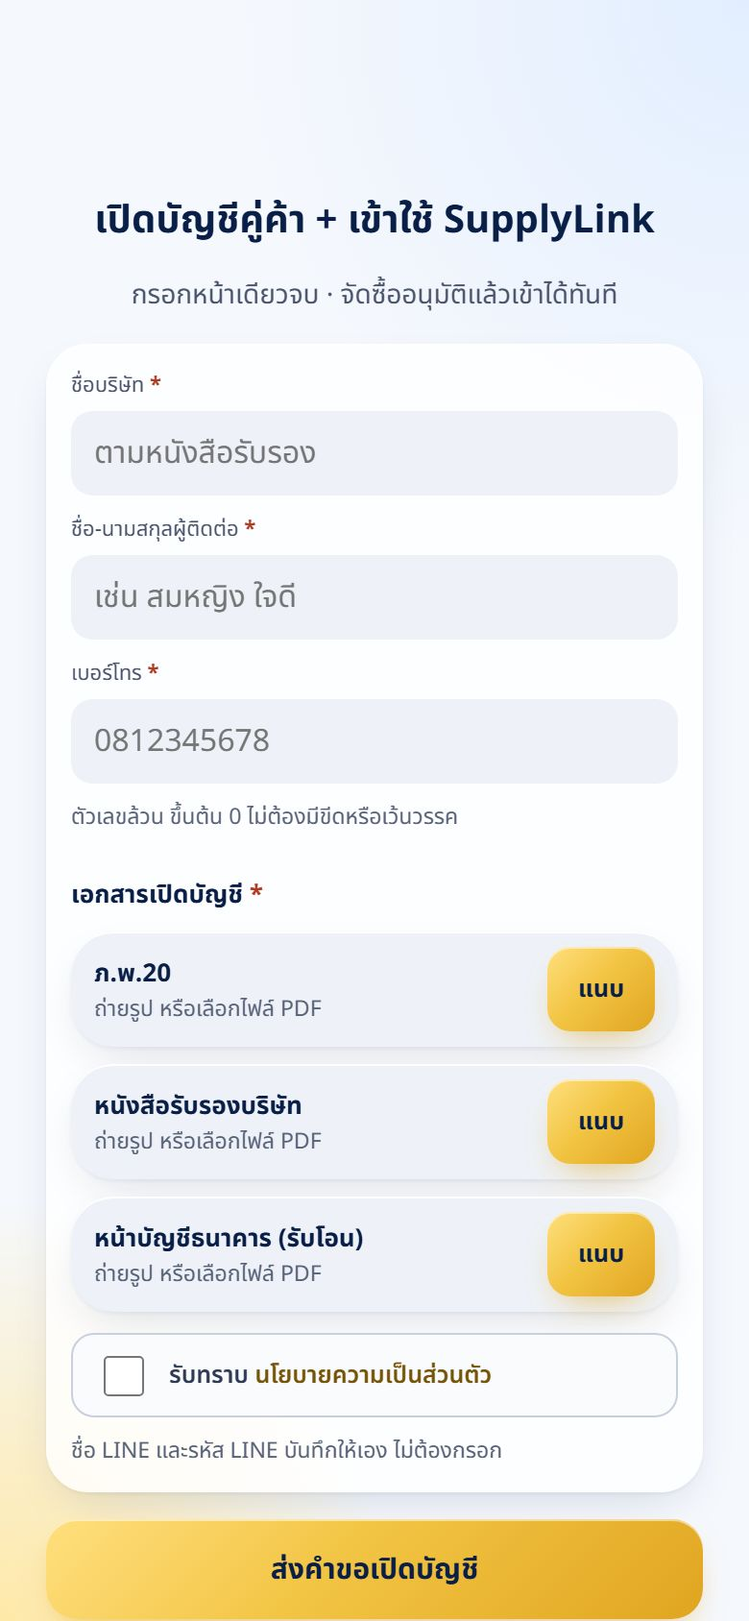
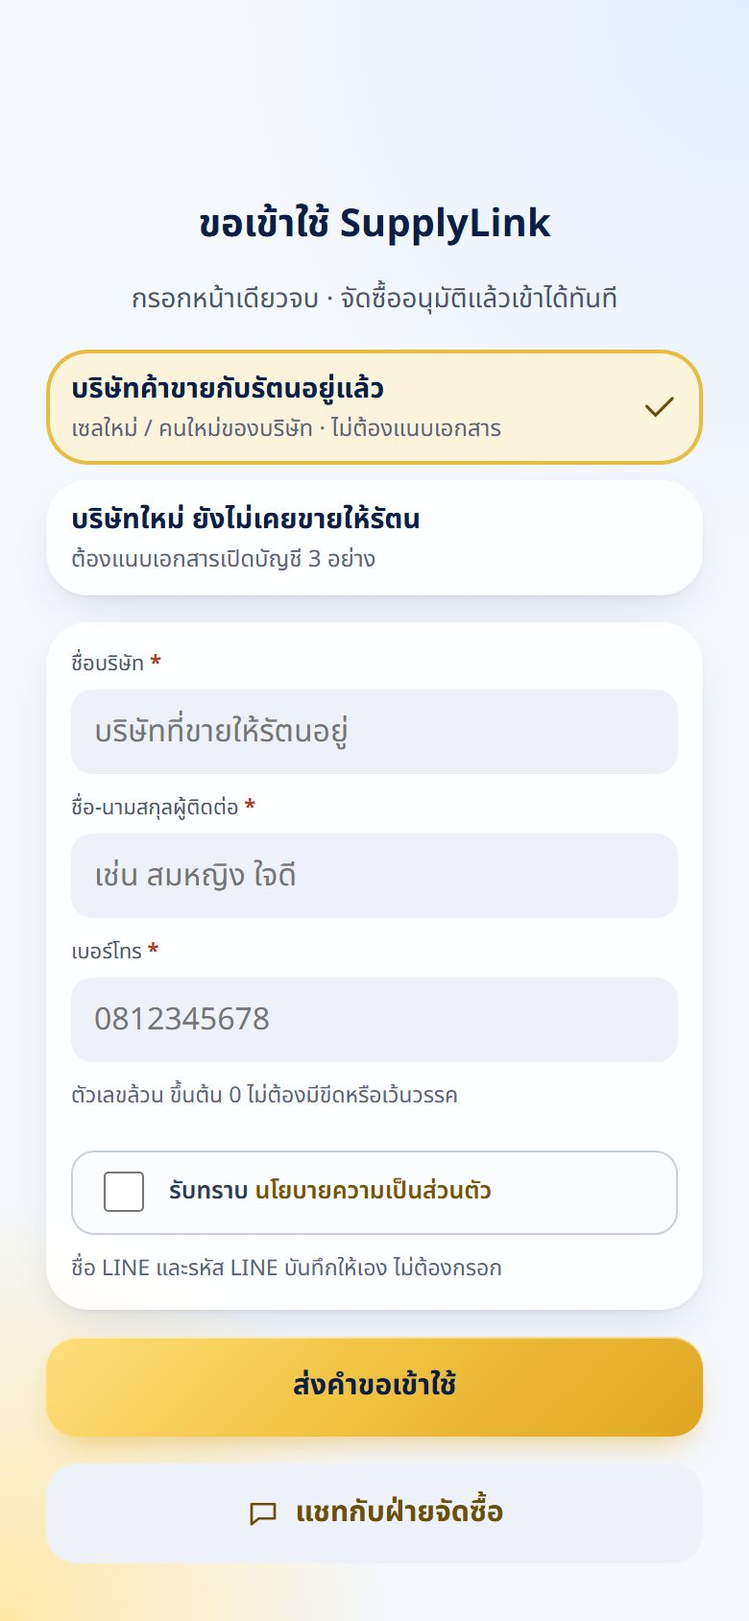
SupplyLink v1.80.0: เซลใหม่ของบริษัทที่ค้าขายอยู่แล้ว ขอเข้าใช้ได้โดยไม่ต้องแนบเอกสาร · guide v1.10.0

diff --git a/rattana-supplylink.html b/rattana-supplylink.html
@@ -3,7 +3,7 @@
 <head>
 <meta charset="utf-8">
 <meta name="viewport" content="width=device-width, initial-scale=1, viewport-fit=cover">
-<title>SupplyLink — คู่ค้ารัตนไพบูลย์ v1.79.4</title>
+<title>SupplyLink — คู่ค้ารัตนไพบูลย์ v1.80.0</title>
 <meta name="theme-color" content="#B8D5FF">
 <link rel="icon" type="image/png" sizes="64x64" href="icons/rattana-supplylink-64.png">
 <link rel="icon" type="image/png" sizes="256x256" href="icons/rattana-supplylink.png">
@@ -2038,7 +2038,7 @@ body.otgate #tabbar,body.otgate #railnav{display:none!important}
 
 /* ══ ตั้งค่า — แก้ตรงนี้ที่เดียว ══ */
 var CONFIG = {
-  APP_VERSION: 'v1.79.4',
+  APP_VERSION: 'v1.80.0',
   /* LIFF ของแอปนี้: LINE Developers → provider RTNPurchase → channel "RTNPurchase Supplier" (2011693023) → แท็บ LIFF
      ต้องอยู่ channel เดียวกับระบบลงทะเบียนเดิม ถึงจะได้ LINE User ID ตรงกับแท็บ Login Users · ว่าง = ยังไม่เปิดใช้จริง */
   LIFF_ID: '2011693023-xbdsN1K7',
@@ -4130,7 +4130,7 @@ V.terms = function () {
     '<div class="card otq" data-tweak="คำถามที่ 2"><b>2. สั่งแล้วกี่วันของเข้าคลังรัตน</b><span class="dim" style="font-size:12px">นับจากวันที่ได้ PO ถึงวันที่ของเข้า (ภาพรวม)</span>'+
       '<div class="row otrow"><span class="grow">ส่วนใหญ่เข้าภายใน</span>'+otInp('lead', o.lead, 'วัน')+'</div></div>'+
     '<div class="card otq otsug" data-tweak="ข้อมูลเพิ่ม"><b>3. ข้อมูลเพิ่ม</b><span class="ottag">ไม่บังคับ</span>'+
-      '<div class="otlbl">ได้ PO ก่อนกี่โมง ถึงนับวันนั้น</div>'+   /* v1.79.4: กดเลือกเวลา 10:00 · 14:00 (Surat) · อื่นๆ = พิมพ์เอง */
+      '<div class="otlbl">ได้ PO ก่อนกี่โมง ถึงนับวันนั้น</div>'+   /* v1.80.0: กดเลือกเวลา 10:00 · 14:00 (Surat) · อื่นๆ = พิมพ์เอง */
       (function () { var oth = S.otCutOther || (o.cut && o.cut !== '10:00' && o.cut !== '14:00');
         return '<div class="filters" style="flex-wrap:wrap">'+['10:00', '14:00'].map(function (t) { return '<button class="tag" aria-pressed="'+(!oth && o.cut === t)+'" data-act="otcut:'+t+'">'+t+' น.</button>'; }).join('')+
           '<button class="tag" aria-pressed="'+!!oth+'" data-act="otcut:other">เวลาอื่น</button></div>'+
@@ -4141,7 +4141,7 @@ V.terms = function () {
       '<div class="row otrow"><span class="grow">เบอร์โทร</span>'+otInp('ctel', o.ctel, '', '08x-xxx-xxxx', true).replace('inputmode="text"', 'inputmode="tel"')+'</div>'+
       '<div class="row otrow"><span class="grow">ช่วงปิดรับออเดอร์ (เทศกาล)</span>'+otInp('close', o.close, '', 'เช่น 28 ธ.ค.–3 ม.ค.', true)+'</div></div>';
   var last = step === 3, next = step === 1 && !o.some ? 3 : step + 1, prev = step === 3 && !o.some ? 1 : step - 1;
-  var force = need || S.otForce;                                  /* v1.79.4: ยังไม่ตอบ / มาจากปุ่ม LINE = ต้องตอบให้จบ ไม่มีปุ่มปิด/กลับ (Surat) */
+  var force = need || S.otForce;                                  /* v1.80.0: ยังไม่ตอบ / มาจากปุ่ม LINE = ต้องตอบให้จบ ไม่มีปุ่มปิด/กลับ (Surat) */
   return '<div class="scr" id="s-terms">'+hdr('เงื่อนไขการสั่งซื้อ', force ? '' : 'profile')+
     '<div class="body" data-tweak="เงื่อนไขการสั่งซื้อ">'+body+   /* ปุ่มอยู่ท้ายเนื้อหา เลื่อนลงสุดแล้วค่อยกด */
     '<div class="otbar" data-tweak="แถบปุ่มแบบสอบถาม">'+(step > 1 ? '<button class="btn line" data-act="otstep:'+prev+'">ย้อนกลับ</button>' : '')+
@@ -9875,22 +9875,26 @@ function obKv(k, v){ return '<div class="flexrow" style="gap:8px;font-size:13px;
 function obState(){ return S.obf || (S.obf = { v:{ company:(OBRES && OBRES.contact && OBRES.contact.company) || '', contact:(OBRES && OBRES.contact && OBRES.contact.name) || '', phone:(OBRES && OBRES.contact && OBRES.contact.phone) || '', sales:'' }, files:[null, null, null], pdpa:false }); }
 function obFormHtml(last){
   var o = obState(), fld = function (k, l, ph, mode) { return '<label class="fld"><span>' + l + ' <b style="color:var(--clay)">*</b></span><input data-ob="' + k + '" value="' + esc(o.v[k] || '') + '" placeholder="' + esc(ph) + '"' + (mode ? ' inputmode="' + (mode === 'tel' ? 'numeric' : mode) + '"' : '') + (mode === 'tel' ? ' maxlength="10" autocomplete="tel"' : '') + '></label>'; };
-  return '<img class="g-logo" src="icons/rattana-supplylink.png" alt="SupplyLink" width="56" height="56" style="width:56px;height:56px"><h1>เปิดบัญชีคู่ค้า + เข้าใช้ SupplyLink</h1>'+
+  var rep = o.kind !== 'new';                                     /* v1.80: บริษัทค้าขายกับรัตนอยู่แล้ว (ค่าเริ่มต้น) = ไม่ต้องแนบเอกสาร · บริษัทใหม่ = แนบ 3 อย่าง */
+  return '<img class="g-logo" src="icons/rattana-supplylink.png" alt="SupplyLink" width="56" height="56" style="width:56px;height:56px"><h1>' + (rep ? 'ขอเข้าใช้ SupplyLink' : 'เปิดบัญชีคู่ค้า + เข้าใช้ SupplyLink') + '</h1>'+
     '<p class="one">กรอกหน้าเดียวจบ · จัดซื้ออนุมัติแล้วเข้าได้ทันที</p>'+
+    '<div style="width:100%;max-width:360px;display:flex;flex-direction:column;gap:8px" data-tweak="เลือกประเภทคำขอ">'+
+      [['rep', 'บริษัทค้าขายกับรัตนอยู่แล้ว', 'เซลใหม่ / คนใหม่ของบริษัท · ไม่ต้องแนบเอกสาร'], ['new', 'บริษัทใหม่ ยังไม่เคยขายให้รัตน', 'ต้องแนบเอกสารเปิดบัญชี 3 อย่าง']].map(function (k) { var on = (k[0] === 'rep') === rep;
+        return '<button class="card rowcard" data-act="obkind:' + k[0] + '" aria-pressed="' + on + '" style="min-height:56px;padding:10px 13px;text-align:left;color:var(--ink);' + (on ? 'box-shadow:inset 0 0 0 2px var(--gold);background:var(--cream,#FBF3DC)' : '') + '"><span class="grow" style="min-width:0"><b style="display:block;font-size:14.5px">' + k[1] + '</b><span class="dim" style="display:block;font-size:12px">' + k[2] + '</span></span>' + (on ? ic('check', 20, 'var(--gold-deep)') : '') + '</button>'; }).join('') + '</div>'+
     (last && last.st === 'ไม่อนุมัติ' ? '<div class="card" style="width:100%;max-width:360px;text-align:left;background:var(--clay-soft);color:var(--ink);font-size:13px;line-height:1.55"><b>คำขอ ' + esc(last.rq) + ' ยังไม่ผ่าน</b><br>' + esc(last.note || '') + '<br><span class="dim">แก้ตามนี้แล้วส่งใหม่ได้เลย</span></div>' : '')+
     '<div class="card" style="width:100%;max-width:360px;text-align:left;display:flex;flex-direction:column;gap:9px;color:var(--ink)" data-tweak="ฟอร์มเปิดบัญชี">'+
-      fld('company', 'ชื่อบริษัท', 'ตามหนังสือรับรอง') + fld('contact', 'ชื่อ-นามสกุลผู้ติดต่อ', 'เช่น สมหญิง ใจดี')+
+      fld('company', 'ชื่อบริษัท', rep ? 'บริษัทที่ขายให้รัตนอยู่' : 'ตามหนังสือรับรอง') + fld('contact', 'ชื่อ-นามสกุลผู้ติดต่อ', 'เช่น สมหญิง ใจดี')+
       fld('phone', 'เบอร์โทร', '0812345678', 'tel')+
       '<span class="one dim" style="font-size:11.5px">ตัวเลขล้วน ขึ้นต้น 0 ไม่ต้องมีขีดหรือเว้นวรรค</span><div id="obmatch"></div>'+
-      '<b style="font-size:13px;margin-top:4px">เอกสารเปิดบัญชี <span style="color:var(--clay)">*</span></b>'+
-      OB_DOCS.map(function (d, i) { var f = o.files[i];
+      (rep ? '' : '<b style="font-size:13px;margin-top:4px">เอกสารเปิดบัญชี <span style="color:var(--clay)">*</span></b>')+
+      (rep ? [] : OB_DOCS).map(function (d, i) { var f = o.files[i];
         return '<div class="card rowcard" style="min-height:52px;padding:8px 12px;background:var(--fill)" data-tweak-card="เอกสารเปิดบัญชี">'+
           (f && f.url ? '<img src="' + f.url + '" alt="" style="width:40px;height:40px;border-radius:8px;object-fit:cover;flex-shrink:0">' : '')+
           '<span class="grow" style="min-width:0"><b class="one" style="display:block;font-size:13px">' + esc(d) + '</b><span class="one dim" style="display:block;font-size:11.5px">' + esc(f ? f.name : 'ถ่ายรูป หรือเลือกไฟล์ PDF') + '</span></span>'+
           '<button class="btn ' + (f ? 'line' : 'gold') + ' sm" style="flex-shrink:0" data-act="obdoc:' + i + '">' + (f ? 'เปลี่ยน' : 'แนบ') + '</button></div>'; }).join('')+
       '<label class="ack" style="margin:2px 0 0;font-size:12.5px"><input type="checkbox" data-obpdpa="1"' + (o.pdpa ? ' checked' : '') + '><span class="one">รับทราบ <a href="#" data-act="obpolicy">นโยบายความเป็นส่วนตัว</a></span></label>'+
       '<span class="one dim" style="font-size:11.5px">ชื่อ LINE และรหัส LINE บันทึกให้เอง ไม่ต้องกรอก</span></div>'+
-    '<button class="btn gold" data-act="obsend">' + (S.sending ? 'กำลังส่ง…' : 'ส่งคำขอเปิดบัญชี') + '</button>'+
+    '<button class="btn gold" data-act="obsend">' + (S.sending ? 'กำลังส่ง…' : rep ? 'ส่งคำขอเข้าใช้' : 'ส่งคำขอเปิดบัญชี') + '</button>'+
     '<button class="btn line" data-act="openoa">' + ic('chat', 18, 'var(--gold-deep)') + 'แชทกับฝ่ายจัดซื้อ</button>';
 }
 function obReadDoc(file, i){
@@ -9903,12 +9907,13 @@ function obReadDoc(file, i){
 function obSend(){
   var o = obState(), v = o.v, miss = [['company', 'ชื่อบริษัท'], ['contact', 'ผู้ติดต่อ']].filter(function (x) { return !String(v[x[0]] || '').trim(); }).map(function (x) { return x[1]; });
   if (!phoneOk(normPhone(v.phone))) miss.push('เบอร์โทร (ตัวเลข 9–10 หลัก ขึ้นต้น 0)');
-  OB_DOCS.forEach(function (d, i) { if (!o.files[i]) miss.push(d); });
+  var rep = o.kind !== 'new';
+  if (!rep) OB_DOCS.forEach(function (d, i) { if (!o.files[i]) miss.push(d); });
   if (!o.pdpa) miss.push('ติ๊กรับทราบนโยบาย');
   if (miss.length) return toast('ยังขาด ' + miss.slice(0, 3).join(' · ') + (miss.length > 3 ? ' และอีก ' + (miss.length - 3) : ''));
-  if (MODE === 'demo') return gate('obwait', { rq:'RQ6911/001', company:v.company, contact:v.contact, phone:v.phone, docs:3 });
-  sendWith('onboardSubmit', { company:v.company, contact:v.contact, phone:normPhone(v.phone), sales:normPhone(v.phone), pdpa:true, confirmed:o.confirmed || '',
-    files:o.files.map(function (f, i) { return { field:OB_DOCS[i], name:f.name || OB_DOCS[i], mime:f.mime || 'image/jpeg', b64:f.b64 }; }) })
+  if (MODE === 'demo') return gate('obwait', { rq:'RQ6911/001', company:v.company, contact:v.contact, phone:v.phone, docs:rep ? 0 : 3 });
+  sendWith('onboardSubmit', { company:v.company, contact:v.contact, phone:normPhone(v.phone), sales:normPhone(v.phone), pdpa:true, confirmed:o.confirmed || '', kind:rep ? 'rep' : 'new',
+    files:rep ? [] : o.files.map(function (f, i) { return { field:OB_DOCS[i], name:f.name || OB_DOCS[i], mime:f.mime || 'image/jpeg', b64:f.b64 }; }) })
     .then(function (r) { S.obf = null; gate('obwait', r.req); }, function () { gate('onboard', OBRES && OBRES.onboard); });
 }
 
@@ -9978,7 +9983,8 @@ V.obdetail = function () {
     '<div class="body" data-tweak="ตรวจคำขอเปิดบัญชี">'+
       '<div class="card" style="display:flex;flex-direction:column;gap:6px" data-tweak-card="ข้อมูลคำขอ"><b class="pn" style="font-size:16px">' + esc(x.company) + '</b>'+
         obKv('เลขคำขอ', x.rq + ' · ' + thDT(x.at)) + obKv('ผู้ติดต่อ', x.contact + ' · ' + x.phone) + (x.sales && x.sales !== x.phone ? obKv('พนักงานขาย', x.sales) : '') + obKv('ชื่อ LINE', x.line) + (x.confirmed ? obKv('ซัพยืนยัน', x.confirmed) : '') + (wait ? '' : obKv('ผล', x.st + (x.code ? ' · ' + x.code + ' ' + x.vname : '') + (x.by ? ' · ' + x.by : '')) + (x.note ? obKv('หมายเหตุ', x.note) : '')) + '</div>'+
-      '<div class="grid3" data-tweak="เอกสารเปิดบัญชี">' + x.docs.map(function (d) {                 /* เอกสารขึ้นให้เห็นเลย ไม่ต้องแตะ (Surat 2026-11-04) · แตะ = เปิดไฟล์เต็ม */
+      (x.kind === 'rep' ? '<div class="card flat" style="font-size:13px;line-height:1.55"><b>เซลของบริษัทที่ค้าขายกับรัตนอยู่แล้ว</b> · ไม่มีเอกสารแนบ เลือกบริษัทจาก Vendor_data ด้านล่างแล้วอนุมัติได้เลย</div>' : '')+
+      '<div class="grid3" data-tweak="เอกสารเปิดบัญชี"' + (x.kind === 'rep' ? ' hidden' : '') + '>' + x.docs.map(function (d) {                 /* เอกสารขึ้นให้เห็นเลย ไม่ต้องแตะ (Surat 2026-11-04) · แตะ = เปิดไฟล์เต็ม */
         return '<button class="obdoc" data-act="oburl:' + esc(d.url) + '" aria-label="เปิด ' + esc(d.t) + '">' + (d.img ? '<img src="' + d.img + '" alt="' + esc(d.t) + '">' : '<span class="dim" style="font-size:11.5px">' + (d.url ? 'แตะเพื่อเปิด' : 'ไม่มีไฟล์') + '</span>') + '<b class="one">' + esc(d.t) + '</b></button>'; }).join('') + '</div>'+
       (wait ? '<div class="sect" style="gap:8px"><b>เลือกบริษัทจาก Vendor_data</b>'+
         '<div class="sb' + (S.obq ? ' has' : '') + '">' + ic('search', 17, 'var(--ink-4)') + '<input id="obq" autocomplete="off" placeholder="ค้นชื่อบริษัท · รหัสเจ้าหนี้ · ผู้รับผิดชอบ" value="' + esc(S.obq || '') + '" aria-label="ค้นบริษัท"><button class="x" data-act="obqx" aria-label="ล้างการค้นหา">✕</button></div>'+
@@ -10232,6 +10238,7 @@ document.addEventListener('click', function (e) {
   if (k === 'qopen') return queueOpen(v);
   if (k === 'toall') return toAll(v);
   if (k === 'obdoc') return pickFile('ob', +v);
+  if (k === 'obkind') { obState().kind = v; return gate('onboard', OBRES && OBRES.onboard); }
   if (k === 'obsend') return obSend();
   if (k === 'obwh') { S.obWh = S.obWh || {}; if (S.obWh[v]) delete S.obWh[v]; else S.obWh[v] = 1; return render(); }
   if (k === 'otall') { otInit().all.on = !S.ot.all.on; return softRender(); }

diff --git a/supplylink-guide.html b/supplylink-guide.html
@@ -3,7 +3,7 @@
 <head>
 <meta charset="utf-8">
 <meta name="viewport" content="width=device-width,initial-scale=1,viewport-fit=cover">
-<title>ฝึกใช้ SupplyLink v1.9.3</title>
+<title>ฝึกใช้ SupplyLink v1.10.0</title>
 <link rel="preconnect" href="https://fonts.googleapis.com">
 <link href="https://fonts.googleapis.com/css2?family=Noto+Sans+Thai:wght@400;500;600;700&display=swap" rel="stylesheet">
 <style>
@@ -138,7 +138,7 @@ button{font:inherit;cursor:pointer}
 
 <script>
 (function () {
-  var VER = 'v1.9.3', APP = 'https://liff.line.me/2011693023-xbdsN1K7';
+  var VER = 'v1.10.0', APP = 'https://liff.line.me/2011693023-xbdsN1K7';
   var IMG = {"h0":"supplylink-guide/h0.jpg","hinc":"supplylink-guide/hinc.jpg","hdef":"supplylink-guide/hdef.jpg","hpo":"supplylink-guide/hpo.jpg","s2":"supplylink-guide/s2.jpg","s4":"supplylink-guide/s4.jpg","s5":"supplylink-guide/s5.jpg","s6":"supplylink-guide/s6.jpg","s7":"supplylink-guide/s7.jpg","s9":"supplylink-guide/s9.jpg","s10":"supplylink-guide/s10.jpg","s11":"supplylink-guide/s11.jpg","z1":"supplylink-guide/z1.jpg","zm":"supplylink-guide/zm.jpg","zt":"supplylink-guide/zt.jpg","zs":"supplylink-guide/zs.jpg","zi":"supplylink-guide/zi.jpg","q1":"supplylink-guide/q1.jpg","q2":"supplylink-guide/q2.jpg","q3":"supplylink-guide/q3.jpg","q4":"supplylink-guide/q4.jpg","q5":"supplylink-guide/q5.jpg","q6":"supplylink-guide/q6.jpg","q7":"supplylink-guide/q7.jpg","q8":"supplylink-guide/q8.jpg","x1":"supplylink-guide/x1.jpg","x2":"supplylink-guide/x2.jpg","x3":"supplylink-guide/x3.jpg","x4":"supplylink-guide/x4.jpg","x5":"supplylink-guide/x5.jpg","x6":"supplylink-guide/x6.jpg","x7":"supplylink-guide/x7.jpg","a2":"supplylink-guide/a2.jpg","a3":"supplylink-guide/a3.jpg","a5":"supplylink-guide/a5.jpg","d2":"supplylink-guide/d2.jpg","a4":"supplylink-guide/a4.jpg","d3":"supplylink-guide/d3.jpg","d4":"supplylink-guide/d4.jpg","p1":"supplylink-guide/p1.jpg","p1b":"supplylink-guide/p1b.jpg","b2":"supplylink-guide/b2.jpg","b3":"supplylink-guide/b3.jpg","p5":"supplylink-guide/p5.jpg","c2":"supplylink-guide/c2.jpg","c3":"supplylink-guide/c3.jpg","k1":"supplylink-guide/k1.jpg","k2":"supplylink-guide/k2.jpg","k3":"supplylink-guide/k3.jpg","k4":"supplylink-guide/k4.jpg","k5":"supplylink-guide/k5.jpg","k6":"supplylink-guide/k6.jpg","k7":"supplylink-guide/k7.jpg","k9":"supplylink-guide/k9.jpg","k10":"supplylink-guide/k10.jpg","k11":"supplylink-guide/k11.jpg","n1":"supplylink-guide/n1.jpg","n2":"supplylink-guide/n2.jpg","n3":"supplylink-guide/n3.jpg","n4":"supplylink-guide/n4.jpg","n5":"supplylink-guide/n5.jpg","n6":"supplylink-guide/n6.jpg","n7":"supplylink-guide/n7.jpg","n8":"supplylink-guide/n8.jpg","n9":"supplylink-guide/n9.jpg","g1":"supplylink-guide/g1.jpg","g2":"supplylink-guide/g2.jpg","g3":"supplylink-guide/g3.jpg","g4":"supplylink-guide/g4.jpg","m1":"supplylink-guide/m1.jpg","m2":"supplylink-guide/m2.jpg","m3":"supplylink-guide/m3.jpg","m4":"supplylink-guide/m4.jpg","m5":"supplylink-guide/m5.jpg","f1":"supplylink-guide/f1.jpg","f2":"supplylink-guide/f2.jpg","f3":"supplylink-guide/f3.jpg","f4":"supplylink-guide/f4.jpg","dws":"supplylink-guide/dws.jpg","dwh":"supplylink-guide/dwh.jpg","stk":"supplylink-guide/stk.jpg","stk2":"supplylink-guide/stk2.jpg","stkh":"supplylink-guide/stkh.jpg","cbi":"supplylink-guide/cbi.jpg","cb1":"supplylink-guide/cb1.jpg","cb2":"supplylink-guide/cb2.jpg","cb3":"supplylink-guide/cb3.jpg","cbp":"supplylink-guide/cbp.jpg","ot0":"supplylink-guide/ot0.jpg","ot1":"supplylink-guide/ot1.jpg","ot2":"supplylink-guide/ot2.jpg","ot3":"supplylink-guide/ot3.jpg"};                                       /* แทนด้วยรูปตอน build */
   var HAND = '<svg class="hand" viewBox="0 0 48 48" aria-hidden="true"><path d="M19 6c2 0 3.5 1.6 3.5 3.6V22l1-.1V18c0-2 1.6-3.4 3.4-3.4S30.3 16 30.3 18v4.4l1-.1v-2.6c0-1.9 1.5-3.3 3.3-3.3s3.3 1.5 3.3 3.3v3.6l.8-.1c1.8 0 3.3 1.5 3.3 3.3V34c0 6.6-5.4 12-12 12h-3.4c-3.8 0-7.4-1.8-9.6-4.9L8.5 30.6c-1-1.4-.7-3.4.7-4.4 1.4-1 3.3-.8 4.4.5l2 2.4V9.6C15.6 7.6 17.1 6 19 6z" fill="#fff" stroke="#0A1F47" stroke-width="2.4" stroke-linejoin="round"/></svg>';
   var FLOWCARD = function () {                              /* ส่งแล้วเกิดอะไรขึ้น: ซัพตอบ → จัดซื้อยืนยัน → เปิด PO จริง */
@@ -159,11 +159,12 @@ button{font:inherit;cursor:pointer}
   };
   /* ตำแหน่ง (x,y,w,h) = พิกัดบนจอมือถือกว้าง 390 จากหน้าแอปจริง */
   var LESSONS = [
-    { k:'open', t:'ซัพใหม่ เปิดบัญชี + เข้าใช้', g:'เปิดบัญชี (ซัพใหม่)', s:'ครั้งแรกที่เปิดแอป', n:7, steps:[
-      { img:'g1', r:[37, 192, 316, 66], h:'เปิดแอปครั้งแรก', d:'ยังไม่มีรหัสคู่ค้า แอปขึ้นฟอร์มเปิดบัญชีให้เอง · ใส่ชื่อบริษัทตามหนังสือรับรอง' },
-      { img:'g1', r:[37, 342, 316, 66], h:'เบอร์โทร', d:'ตัวเลขล้วน ขึ้นต้น 0 ไม่ต้องมีขีดหรือเว้นวรรค (พิมพ์มาแอปตัดให้เอง)', fx:'type', fxt:'0897654321' },
-      { img:'g2', r:[176, 503, 164, 44], h:'ใช่บริษัทของคุณไหม', d:'เบอร์ตรงกับบริษัทในระบบรัตน แอปถามให้ยืนยัน แตะ "ใช่ บริษัทนี้" ชื่อบริษัทเติมให้' },
-      { img:'g3', r:[285, 469, 56, 44], h:'แนบเอกสาร 3 อย่าง', d:'ภ.พ.20 · หนังสือรับรองบริษัท · หน้าบัญชีธนาคาร ถ่ายรูปหรือเลือก PDF' },
+    { k:'open', t:'ซัพใหม่ เปิดบัญชี + เข้าใช้', g:'เปิดบัญชี (ซัพใหม่)', s:'ครั้งแรกที่เปิดแอป', n:8, steps:[
+      { img:'g1', r:[24, 182, 342, 60], h:'บริษัทค้าขายกับรัตนอยู่แล้ว?', d:'เซลใหม่ของบริษัทที่ขายให้รัตนอยู่ เลือกข้อนี้ ไม่ต้องแนบเอกสาร · บริษัทใหม่ที่ยังไม่เคยขาย เลือกข้อล่าง' },
+      { img:'g1', r:[37, 337, 316, 66], h:'ชื่อบริษัท', d:'ใส่ชื่อบริษัทที่ขายให้รัตน (บริษัทใหม่ = ตามหนังสือรับรอง)' },
+      { img:'g1', r:[37, 487, 316, 66], h:'เบอร์โทร', d:'ตัวเลขล้วน ขึ้นต้น 0 ไม่ต้องมีขีดหรือเว้นวรรค (พิมพ์มาแอปตัดให้เอง)', fx:'type', fxt:'0897654321' },
+      { img:'g2', r:[176, 645, 164, 44], h:'ใช่บริษัทของคุณไหม', d:'เบอร์ตรงกับบริษัทในระบบรัตน แอปถามให้ยืนยัน แตะ "ใช่ บริษัทนี้" ชื่อบริษัทเติมให้' },
+      { img:'g3', r:[285, 469, 56, 44], h:'บริษัทใหม่: แนบเอกสาร 3 อย่าง', d:'ภ.พ.20 · หนังสือรับรองบริษัท · หน้าบัญชีธนาคาร ถ่ายรูปหรือเลือก PDF' },
       { img:'g3', r:[37, 601, 316, 44], h:'รับทราบนโยบาย', d:'ติ๊กครั้งเดียว อนุมัติแล้วเข้าแอปได้เลย ไม่ต้องกดซ้ำ' },
       { img:'g3', r:[24, 698, 342, 52], h:'ส่งคำขอเปิดบัญชี', d:'ชื่อ LINE และรหัส LINE แอปเก็บให้เอง ไม่ต้องกรอก' },
       { img:'g4', r:[24, 529, 342, 52], h:'รอจัดซื้ออนุมัติ', d:'อนุมัติแล้วได้ข้อความใน LINE ทันที · กดตรวจสอบอีกครั้ง หรือเปิดแอปใหม่ ก็เข้าได้เลย' }
@@ -298,7 +299,7 @@ button{font:inherit;cursor:pointer}
         { t:'ไม่ได้ ต้องเปิดแอปแล้วส่งคำขอเปิดบัญชีเอง', ok:1, why:'แอปเก็บรหัส LINE ที่ถูกให้เองตอนคุณเปิดแอป · LINE ID คนละตัวกับรหัสที่ระบบใช้' },
         { t:'ได้ ส่ง LINE ID ให้จัดซื้อพอ', why:'พิมพ์ LINE ID เองแล้วเข้าไม่ได้' },
         { t:'ต้องลงทะเบียนลิงก์อื่นก่อน', why:'ไม่ต้อง เปิดแอปแล้วส่งคำขอในหน้าเดียวจบ' }] },
-      { img:'g2', r:[176, 503, 164, 44], q:'แอปถามว่าเบอร์นี้เป็นบริษัทของคุณไหม และใช่ แตะตรงไหน', ok:'"ใช่ บริษัทนี้" ชื่อบริษัทเติมให้ จัดซื้ออนุมัติได้เร็วขึ้น', hint:'ปุ่มทองในกล่อง',
+      { img:'g2', r:[176, 645, 164, 44], q:'แอปถามว่าเบอร์นี้เป็นบริษัทของคุณไหม และใช่ แตะตรงไหน', ok:'"ใช่ บริษัทนี้" ชื่อบริษัทเติมให้ จัดซื้ออนุมัติได้เร็วขึ้น', hint:'ปุ่มทองในกล่อง',
         traps:[{ r:[50, 503, 116, 44], why:'"ไม่ใช่" = บริษัทที่ขึ้นไม่ใช่ของคุณ' }] },
       { q:'กรอกเบอร์แบบไหนถูก?', opts:[
         { t:'0897654321', ok:1, why:'ตัวเลขล้วน ขึ้นต้น 0' },
